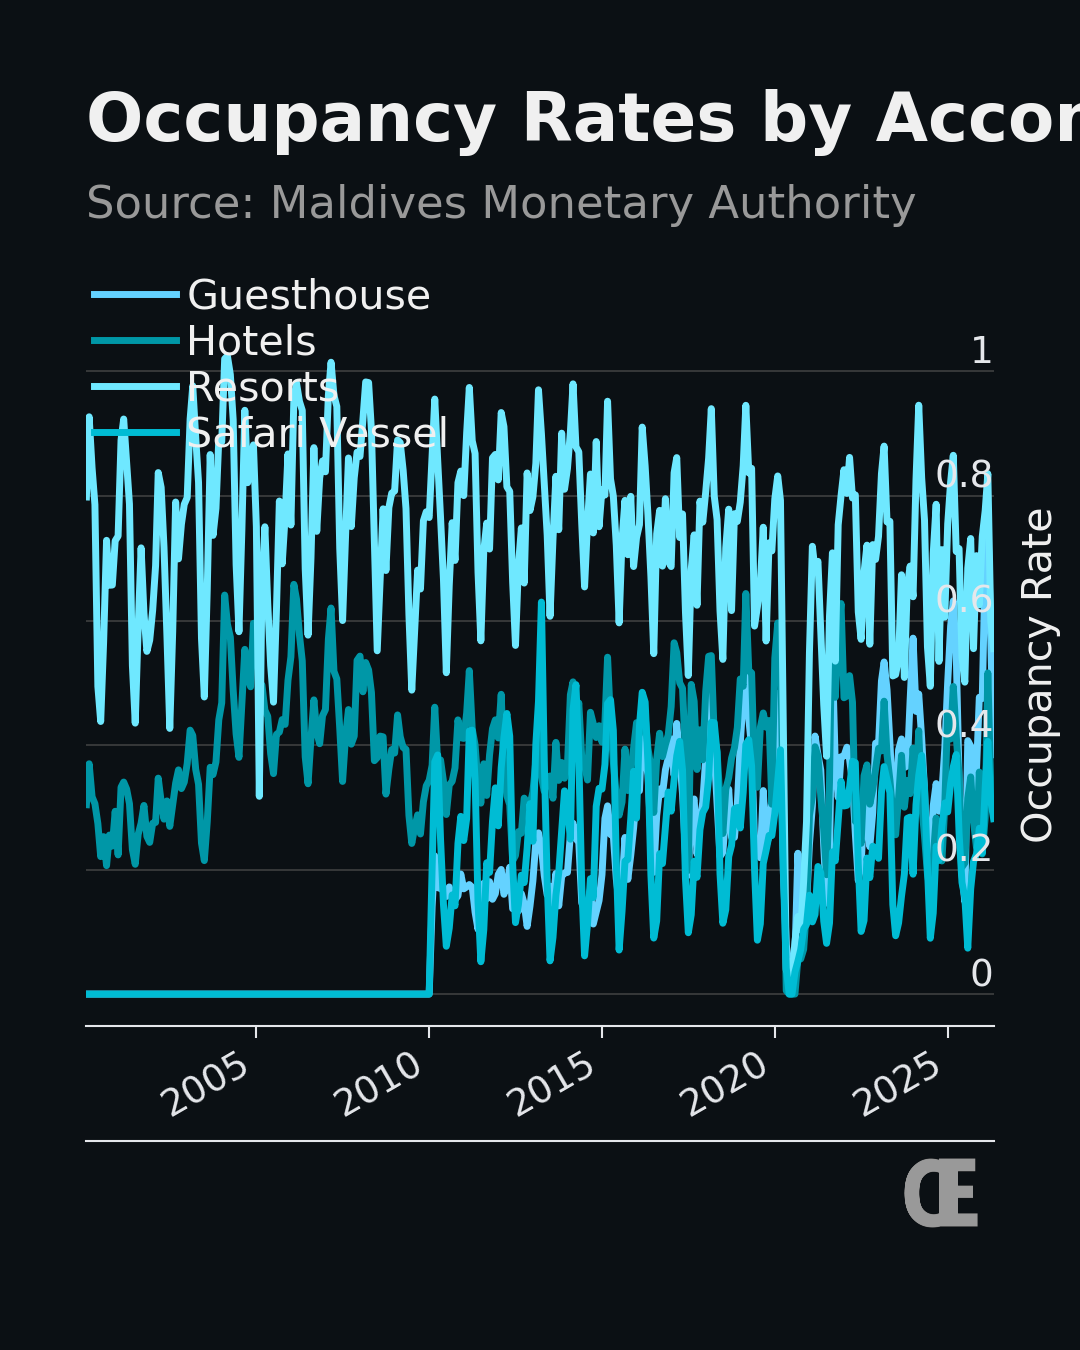
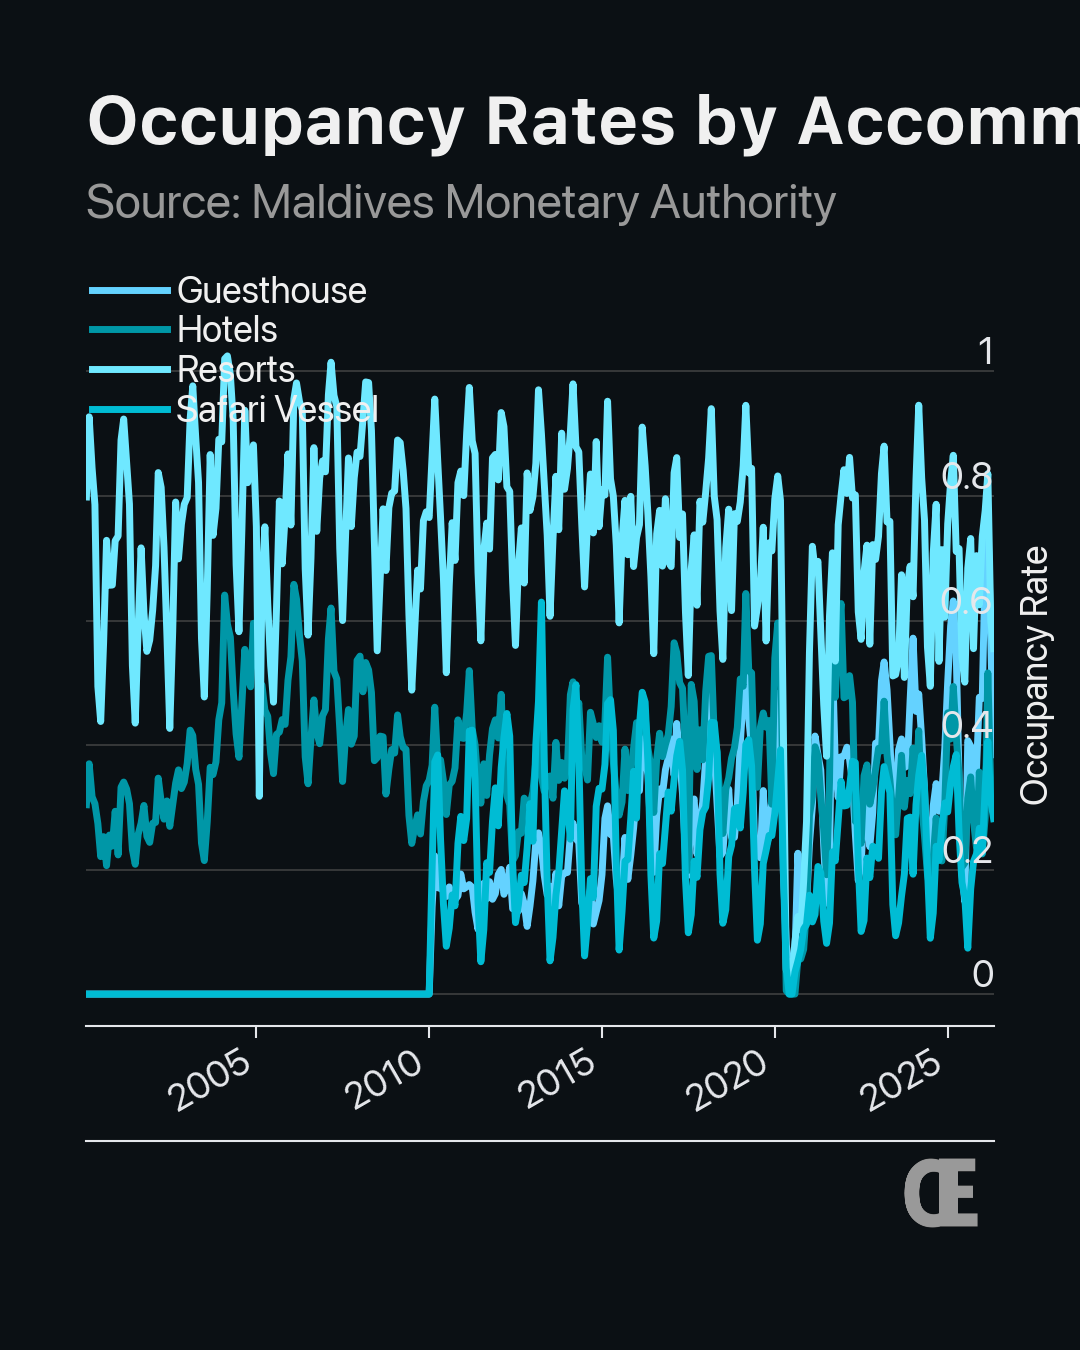
Enhance typography and layout consistency across charts; introduce new font types for improved aesthetics

diff --git a/src/elegant_chart/figure_mixin.py b/src/elegant_chart/figure_mixin.py
@@ -3,6 +3,8 @@ from typing import Any, Optional, Tuple
 import os
 import matplotlib.pyplot as plt
 
+from .style_mixin import LINESPACING
+
 
 class FigureMixin:
     def _init_figure_and_axes(self) -> Tuple[plt.Figure, plt.Axes]:
@@ -60,12 +62,13 @@ class FigureMixin:
 
         _title_kwargs = dict(
             transform=ax.transAxes,
-            fontsize=self._fs(18),
+            fontsize=self._ts("title"),
             va="bottom",
             ha="left",
             color=self.color_title,
             fontfamily=self.font_title_family,
             fontweight=self.font_title_weight,
+            linespacing=LINESPACING,
             clip_on=False,
         )
 
@@ -73,34 +76,33 @@ class FigureMixin:
             ax.text(0.0, 1.24, self.title, **_title_kwargs)
 
         if self.subtitle:
-            # Render each line separately so subtitle_line_gap_rel (0.01) can be applied.
-            # line_step = one subtitle line height in axes-fraction + 1% gap.
-            _ax_h_pt = self.figsize[1] * (0.76 - 0.24) * 72
-            _line_step = self._fs(12) / _ax_h_pt + 0.01
-            for i, line in enumerate(self.subtitle.split("\n")):
-                ax.text(
-                    0.0,
-                    1.20 - i * _line_step,
-                    line,
-                    transform=ax.transAxes,
-                    fontsize=self._fs(12),
-                    va="top",
-                    ha="left",
-                    color=self.color_subtitle,
-                    clip_on=False,
-                )
+            # Single multi-line text block; leading is governed by linespacing
+            # rather than a hand-stepped per-line offset.
+            ax.text(
+                0.0,
+                1.20,
+                self.subtitle,
+                transform=ax.transAxes,
+                fontsize=self._ts("subtitle"),
+                va="top",
+                ha="left",
+                color=self.color_subtitle,
+                fontfamily=self.font_main_family,
+                linespacing=LINESPACING,
+                clip_on=False,
+            )
 
         if self.xlabel:
-            ax.set_xlabel(self.xlabel, color=self.color_axes_label, fontsize=self._fs(11))
+            ax.set_xlabel(self.xlabel, color=self.color_axes_label, fontsize=self._ts("axis_label"))
         if self.ylabel:
-            ax.set_ylabel(self.ylabel, color=self.color_axes_label, fontsize=self._fs(11))
+            ax.set_ylabel(self.ylabel, color=self.color_axes_label, fontsize=self._ts("axis_label"))
 
         if has_legend:
             ax.legend(
                 loc="upper left",
                 bbox_to_anchor=(-0.01, 1.09),
                 frameon=False,
-                fontsize=self._fs(11),
+                fontsize=self._ts("legend"),
                 handletextpad=self._px(0.4),
                 labelspacing=0.15,
                 borderaxespad=0.0,
@@ -112,6 +114,8 @@ class FigureMixin:
                 ax, secondary=(self.y_axis_side == "right")
             )
 
+        self._draw_annotations(ax)
+
         self._auto_expand_bottom(ax)
 
         plt.subplots_adjust(
@@ -120,6 +124,34 @@ class FigureMixin:
             top=0.76,
             bottom=0.24,
         )
+
+    def _draw_annotations(self, ax: plt.Axes) -> None:
+        """Draw sparse, muted-grey in-plot annotations declared via `annotations=[...]`.
+
+        Each entry is a dict: {"x", "y", "text", "dx"=0, "dy"=0,
+        "ha"="left", "va"="bottom", "arrow"=False}.
+        """
+        for ann in self.annotations:
+            arrowprops = None
+            if ann.get("arrow"):
+                arrowprops = dict(
+                    arrowstyle="-",
+                    color=self.color_annotation,
+                    linewidth=self._px(0.5),
+                )
+            ax.annotate(
+                ann["text"],
+                xy=(ann["x"], ann["y"]),
+                xytext=(ann.get("dx", 0), ann.get("dy", 0)),
+                textcoords="offset points",
+                ha=ann.get("ha", "left"),
+                va=ann.get("va", "bottom"),
+                fontsize=self._ts("annotation"),
+                color=self.color_annotation,
+                fontfamily=self.font_main_family,
+                arrowprops=arrowprops,
+                zorder=5,
+            )
 
     def _auto_expand_bottom(self, ax: plt.Axes) -> None:
         """Re-adjust bottom margin if x-tick labels bleed below the figure boundary."""
@@ -167,10 +199,11 @@ class FigureMixin:
                 self.caption,
                 ha="left",
                 va="top",
-                fontsize=self._fs(9),
+                fontsize=self._ts("caption"),
                 color=self.color_caption,
                 fontfamily=self.font_caption_family,
                 fontweight=self.font_caption_weight,
+                linespacing=LINESPACING,
             )
 
         if self.logo_path:

diff --git a/src/elegant_chart/style_mixin.py b/src/elegant_chart/style_mixin.py
@@ -6,10 +6,30 @@ import warnings
 from matplotlib import font_manager
 
 
+# Base font sizes in points, authored at REFERENCE_FIGSIZE; scaled via _ts()/_fs().
+TYPE_SCALE = {
+    "title": 18,        # spec 16-18pt (kept at top of range)
+    "subtitle": 13,     # spec 12-13pt
+    "axis_label": 10,   # spec 9-10pt
+    "tick_label": 10,   # spec 9-10pt
+    "legend": 10,       # aligned to data-label tier
+    "value_label": 8,   # compact data labels
+    "caption": 8,       # spec source/footnote 8pt
+    "annotation": 10,   # axis-label tier, muted in-plot text
+}
+
+# Leading ratio applied to multi-line title/subtitle/caption text.
+LINESPACING = 1.25
+
+
 class StyleMixin:
     def _fs(self, base: float) -> float:
         """Font size in points, scaled by font_scale and capped at the reference figure size."""
         return base * self.font_scale * min(self._figure_scale, 1.0)  # type: ignore[attr-defined]
+
+    def _ts(self, name: str) -> float:
+        """Scaled font size in points for a named type-scale role (see TYPE_SCALE)."""
+        return self._fs(TYPE_SCALE[name])
 
     def _px(self, base: float) -> float:
         """Geometric point value (linewidth, markersize, pad …) scaled by figure size only."""
@@ -97,6 +117,7 @@ class StyleMixin:
             self.color_title = "#f0f0f0"  # type: ignore[attr-defined]
             self.color_subtitle = "#999999"  # type: ignore[attr-defined]
             self.color_caption = "#999999"  # type: ignore[attr-defined]
+            self.color_annotation = "#999999"  # type: ignore[attr-defined]
             self.color_spine = "#E5E7EB"  # type: ignore[attr-defined]
         else:
             self.color_axes_edge = "#444444"  # type: ignore[attr-defined]
@@ -106,6 +127,7 @@ class StyleMixin:
             self.color_title = "#111111"  # type: ignore[attr-defined]
             self.color_subtitle = "#666666"  # type: ignore[attr-defined]
             self.color_caption = "#555555"  # type: ignore[attr-defined]
+            self.color_annotation = "#555555"  # type: ignore[attr-defined]
             self.color_spine = "#000000"  # type: ignore[attr-defined]
 
         dpi = getattr(self, "dpi", 150)
@@ -113,10 +135,10 @@ class StyleMixin:
             {
                 "figure.dpi": dpi,
                 "font.family": self.font_main_family,
-                "axes.titlesize": self._fs(18),
-                "axes.labelsize": self._fs(11),
-                "xtick.labelsize": self._fs(10),
-                "ytick.labelsize": self._fs(10),
+                "axes.titlesize": self._ts("title"),
+                "axes.labelsize": self._ts("axis_label"),
+                "xtick.labelsize": self._ts("tick_label"),
+                "ytick.labelsize": self._ts("tick_label"),
                 "axes.edgecolor": self.color_axes_edge,
                 "axes.labelcolor": self.color_axes_label,
                 "text.color": self.color_text_main,

diff --git a/src/elegant_chart/base.py b/src/elegant_chart/base.py
@@ -10,6 +10,7 @@ Attribute contract (mixins may read, only __init__ writes)
 ----------------------------------------------------------
 Presentation
     title, subtitle, xlabel, ylabel, caption  — str | None
+    annotations — list[dict] (sparse muted-grey in-plot callouts; see FigureMixin._draw_annotations)
     figsize    — (float, float)
     theme      — str
     font_scale — float
@@ -44,7 +45,7 @@ Last-render cache (written by bar/line, read by export_data)
 
 from __future__ import annotations
 
-from typing import Optional, Tuple
+from typing import Any, Optional, Tuple
 
 from .types import FormatterSpec
 
@@ -82,6 +83,7 @@ class ChartBase:
         y_axis_side: str = "right",
         y_tick_labels_inside: bool = True,
         show_y_spine: bool = False,
+        annotations: Optional[list[dict[str, Any]]] = None,
     ) -> None:
         # ── presentation ──────────────────────────────────────────────────
         self.title = title
@@ -89,6 +91,7 @@ class ChartBase:
         self.xlabel = xlabel
         self.ylabel = ylabel
         self.caption = caption
+        self.annotations = annotations or []
         self.figsize = figsize
         # Proportional scale relative to the reference design size.
         # 1.0 at the default figsize; grows / shrinks linearly with figure size.

diff --git a/src/elegant_chart/bar_mixin.py b/src/elegant_chart/bar_mixin.py
@@ -104,7 +104,7 @@ class BarMixin(DataMixin):
                             ax.text(
                                 float(pos), bar_top, val_fmt(float(v), 0),
                                 ha="center", va="bottom",
-                                fontsize=self._fs(7),  # type: ignore[attr-defined]
+                                fontsize=self._ts("value_label"),  # type: ignore[attr-defined]
                                 color=self.color_text_main,  # type: ignore[attr-defined]
                                 zorder=6,
                             )
@@ -133,7 +133,7 @@ class BarMixin(DataMixin):
                             ax.text(
                                 float(pos) + offset, float(v), val_fmt(float(v), 0),
                                 ha="center", va="bottom",
-                                fontsize=self._fs(7),  # type: ignore[attr-defined]
+                                fontsize=self._ts("value_label"),  # type: ignore[attr-defined]
                                 color=self.color_text_main,  # type: ignore[attr-defined]
                                 zorder=6,
                             )

diff --git a/src/elegant_chart/axis_mixin.py b/src/elegant_chart/axis_mixin.py
@@ -197,7 +197,7 @@ class AxisMixin:
                     transform=transform,
                     ha=h_align,
                     va="bottom",
-                    fontsize=self._fs(10),  # type: ignore[attr-defined]
+                    fontsize=self._ts("tick_label"),  # type: ignore[attr-defined]
                     color=self.color_tick,  # type: ignore[attr-defined]
                     zorder=5,
                     clip_on=False,

diff --git a/src/elegant_chart/line_mixin.py b/src/elegant_chart/line_mixin.py
@@ -117,7 +117,7 @@ class LineMixin(DataMixin):
                             textcoords="offset points",
                             ha="center",
                             va="bottom",
-                            fontsize=self._fs(7),  # type: ignore[attr-defined]
+                            fontsize=self._ts("value_label"),  # type: ignore[attr-defined]
                             color=self.color_text_main,  # type: ignore[attr-defined]
                             zorder=6,
                         )